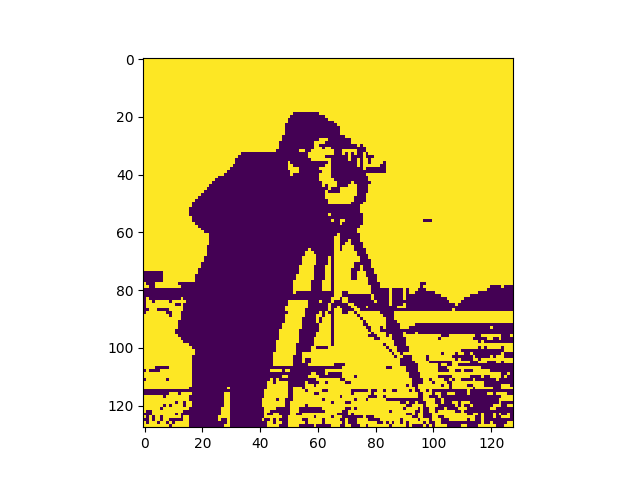
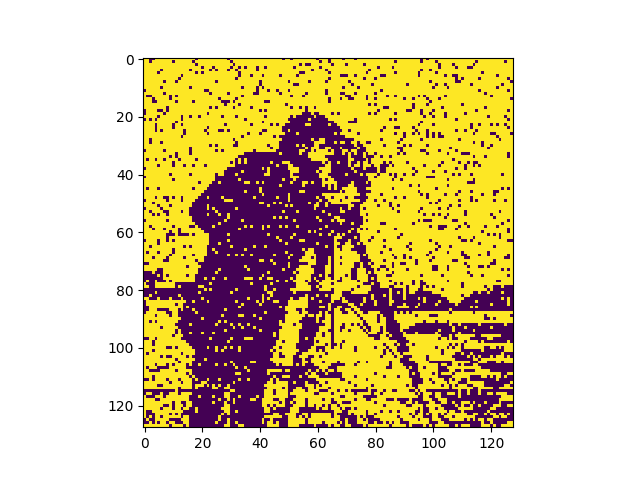
Add random noise to fancy images

diff --git a/test_fancy.py b/test_fancy.py
@@ -37,6 +37,18 @@ if __name__ == '__main__':
     train_images = np.array(data)
     test_images = np.copy(train_images)
 
+    # randomly flip 20% of pixels
+    for i in range(len(test_images)):
+        img = test_images[i]
+
+        nreplace = round(0.2*len(img))
+
+        k = np.random.choice(list(range(len(img))), nreplace, replace=False)
+        
+        to_replace = np.random.randint(2, size=nreplace)
+        to_replace = 2*to_replace - 1
+        img[k] = to_replace
+
     for i in range(len(test_images)):
         test_img = np.reshape(test_images[i], (128,128))
 
@@ -51,7 +63,7 @@ if __name__ == '__main__':
         plt.savefig('images_fancy/train_'+str(i)+'.png')
         plt.close()
 
-    h = hopfield(train_images, test_images, theta=0, nprocess=5000, storkey=False)
+    h = hopfield(train_images, test_images, theta=0, nprocess=200000, storkey=False)
 
     retrain_img = h.process(train_images, 0, 5000)
 
